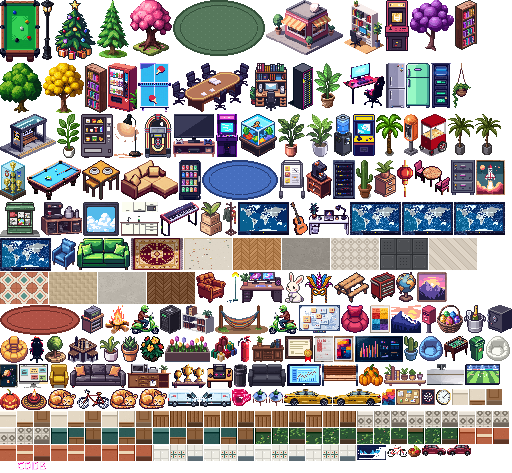
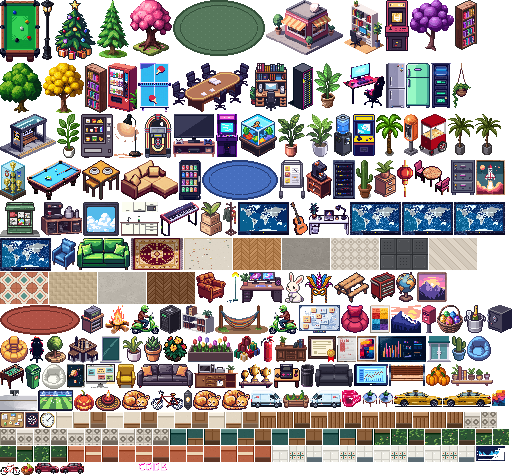
Firmópolis: a fachada do prédio vista de frente, embaixo do mapa
Peças novas do PixelLab (janela, porta de vidro, arandela e floreira, em
arte/pixellab/fachada, com o gerar.py), a parede desenhada no mapa.js e a
rua 32 px mais para baixo. As arandelas acendem à noite com os postes.

diff --git a/static/mapa.js b/static/mapa.js
@@ -10,7 +10,8 @@ const PAREDE = 3;              // altura da parede, em tiles
 const MESA_W = 3, MESA_H = 3;  // célula de mesa, em tiles
 const BAIXO_PISO = 8;          // piso das salas de baixo, em tiles
 const CORREDOR_H = 3;
-const MX = 5, MY = 4, MB = 11;  // área externa: laterais, topo e rua embaixo (em tiles)
+const MX = 5, MY = 4, MB = 13;  // área externa: laterais, topo e rua embaixo (em tiles)
+const FACHADA = 32;  // px: a frente do prédio vista de frente, embaixo da planta (Firmópolis); empurra a rua para baixo
 const ESTILOS_MESA = [
   { tampo: "#c9a777", brilho: "#dcbd8c", frente: "#8a6a45", borda: "#6e5236", pe: "#2b2b36" },   // madeira clara
   { tampo: "#7a5236", brilho: "#946646", frente: "#53361f", borda: "#3e2716", pe: "#1f1f26" },   // madeira escura
@@ -445,7 +446,7 @@ function montar(atlas, config, grupos, planta) {
   pintaPx(c, cx1, cT0, 3, corredor.h * T, "#23212f");                                        // fundo do corredor
   pintaPx(c, cx0 - 3, cT0, 3, 8, "#23212f"); pintaPx(c, cx0 - 3, cB0 - 8, 3, 8, "#23212f");   // batentes da entrada
   { // lado de fora: calçada de pedra portuguesa (ondas) da porta até a rua, capacho na porta e soleira por dentro
-    const px0 = predioRet.x - 26, fimCaminho = predioRet.y + predioRet.h + 68;
+    const px0 = predioRet.x - 26, fimCaminho = predioRet.y + predioRet.h + FACHADA + 68;
     const pedra = (x, y, w, h) => {
       pintaPx(c, x, y, w, h, "#ece8de");
       c.fillStyle = "#5c5c64";
@@ -1194,10 +1195,11 @@ function pintarExterior(c, atlas, W, H, p, marca) {
   c.fillStyle = "#a7a49c";
   for (let x = p.x - m; x < p.x + p.w + m; x += 8) { c.fillRect(x, p.y - m, 1, m); c.fillRect(x, p.y + p.h, 1, m); }
   for (let y = p.y - m; y < p.y + p.h + m; y += 8) { c.fillRect(p.x - m, y, m, 1); c.fillRect(p.x + p.w, y, m, 1); }
-  // sombra do prédio
-  c.fillStyle = "rgba(0,0,0,.22)"; c.fillRect(p.x + 4, p.y + p.h, p.w, 5); c.fillRect(p.x + p.w, p.y + 4, 5, p.h);
+  // sombra do prédio (embaixo, a fachada faz a sombra)
+  c.fillStyle = "rgba(0,0,0,.22)"; c.fillRect(p.x + p.w, p.y + 4, 5, p.h + FACHADA);
+  pintarFachada(c, atlas, p, r);
   // rua: meio-fio, asfalto e faixas
-  const yRua = p.y + p.h + 84, alt = 44;
+  const yRua = p.y + p.h + FACHADA + 84, alt = 44;
   c.fillStyle = "#d7d4cc"; c.fillRect(0, yRua - 4, W, 4);
   c.fillStyle = "#3d3f46"; c.fillRect(0, yRua, W, alt);
   for (let i = 0; i < W * alt / 30; i++) { c.fillStyle = r() < 0.5 ? "#45474f" : "#36383f"; c.fillRect(Math.floor(r() * W), yRua + Math.floor(r() * alt), 1, 1); }
@@ -1223,8 +1225,30 @@ function pintarExterior(c, atlas, W, H, p, marca) {
   c.fillStyle = "#4f8a3c"; for (let i = 0; i < W / 40; i++) c.fillRect(Math.floor(r() * W), yRua - 17, 1, 2);   // tufos de grama no meio-fio
 }
 
+// A frente do prédio, vista de frente, numa faixa embaixo da planta: reboco, cornija, rodapé de pedra, janelas, a porta de
+// vidro no meio com arandelas dos lados e floreiras no chão. As peças são do PixelLab (arte/pixellab/fachada); a parede, daqui.
+function pintarFachada(c, atlas, p, r) {
+  const y0 = p.y + p.h, x0 = p.x, x1 = p.x + p.w, h = FACHADA;
+  c.fillStyle = "#e6cfa6"; c.fillRect(x0, y0, p.w, h);
+  for (let i = 0; i < p.w * h / 14; i++) { c.fillStyle = r() < 0.5 ? "#dcc298" : "#efdab4"; c.fillRect(x0 + Math.floor(r() * p.w), y0 + 3 + Math.floor(r() * (h - 6)), 1, 1); }
+  c.fillStyle = "#b8956a"; c.fillRect(x0, y0, p.w, 3); c.fillStyle = "#d9bd8f"; c.fillRect(x0, y0 + 3, p.w, 1);   // cornija
+  c.fillStyle = "#958d80"; c.fillRect(x0, y0 + h - 3, p.w, 3); c.fillStyle = "#7d766b"; c.fillRect(x0, y0 + h - 1, p.w, 1);   // rodapé
+  for (let x = x0 + 40; x < x1; x += 80) { c.fillStyle = "#d4b88c"; c.fillRect(x, y0 + 4, 2, h - 7); }   // pilastras
+  const peca = (n, cx, base) => { const s = sprite(atlas, n); if (s) c.drawImage(atlas.img, s[0], s[1], s[2], s[3], Math.round(cx - s[2] / 2), base - s[3], s[2], s[3]); return s; };
+  const porta = Math.round(x0 + p.w / 2), fora = [porta - 34, porta + 34];
+  for (let x = x0 + 20; x < x1 - 10; x += 40) if (Math.abs(x - porta) > 30) peca("fachada_janela", x, y0 + h - 3);
+  peca("fachada_porta", porta, y0 + h - 2);
+  for (const x of [porta - 18, porta + 18]) peca("fachada_arandela", x, y0 + 22);
+  // calçadinha na frente da fachada e floreiras entre as janelas
+  c.fillStyle = "#b9b6ae"; c.fillRect(x0, y0 + h, p.w, 6); c.fillStyle = "#a7a49c"; for (let x = x0; x < x1; x += 8) c.fillRect(x, y0 + h, 1, 6);
+  c.fillStyle = "rgba(0,0,0,.18)"; c.fillRect(x0, y0 + h, p.w, 2);
+  for (let x = x0 + 40; x < x1 - 20; x += 160) if (!fora.some(f => Math.abs(f - x) < 40)) peca("fachada_floreira", x, y0 + h + 8);
+}
+// onde ficam as arandelas da fachada (acendem à noite, com os postes)
+const arandelas = p => { const porta = Math.round(p.x + p.w / 2); return [porta - 18, porta + 18].map(x => ({ x, y: p.y + p.h + 8 })); };
+
 function montarExterior(atlas, obj0, W, H, p, marca, portaY) {
-  const r = rng(marca ^ 11), ext = { carros: [], postes: [], ruaY: p.y + p.h + 84, ruaAlt: 44 };
+  const r = rng(marca ^ 11), ext = { carros: [], postes: [], ruaY: p.y + p.h + FACHADA + 84, ruaAlt: 44 };
   const tem = n => !!sprite(atlas, n), alto = n => sprite(atlas, n)[3], larg = n => sprite(atlas, n)[2];
   // planta e árvore saem espelhadas metade das vezes (pixel art não escala sem borrar: a variação vem do espelho e do deslocamento)
   // fora: árvores e plantas daqui balançam com o vento do clima (efeitos.js)
@@ -1233,7 +1257,7 @@ function montarExterior(atlas, obj0, W, H, p, marca, portaY) {
   // expediente (aberto/fechado, desenhada no efeitos.js) e, depois dela, o bicicletário. A placa vem antes de tudo do gramado
   // (os outros desviam dela) e fica fora da rota de quem sai: pelo caminho até a calçada e de lá para a esquerda (vida.js)
   obj("planta2", p.x - 14, portaY - 12);
-  obj("placa_expediente", p.x + 26, p.y + p.h + 59); obj("bicicletario", p.x + 84, p.y + p.h + 40);
+  obj("placa_expediente", p.x + 26, p.y + p.h + FACHADA + 59); obj("bicicletario", p.x + 84, p.y + p.h + FACHADA + 40);
   // cada empresa ganha sua rua: 3 espécies de árvore sorteadas (as outras aparecem de vez em quando) e seu ritmo
   const especies = ["arvore1", "arvore2", "arvore3", "arvore_ipe", "arvore_jacaranda"].filter(tem);
   for (let i = especies.length - 1; i > 0; i--) { const k = Math.floor(r() * (i + 1)); [especies[i], especies[k]] = [especies[k], especies[i]]; }
@@ -1263,6 +1287,7 @@ function montarExterior(atlas, obj0, W, H, p, marca, portaY) {
   for (let x = 30 + r() * 70; x < W - 20; x += passo + (r() - 0.5) * 40) {
     const o = obj("poste", x, meioFio); if (o) ext.postes.push({ x: o.x + o.w / 2, y: o.y + 4 });
   }
+  ext.postes.push(...arandelas(p));
   obj("caixa_correio", p.x - 6, meioFio);
   const urbano = ["banco", "banco", "lixeira_rua", "lixeira_rua", "hidrante", "hidrante", "orelhao", "ponto_onibus", "banca_jornal"].filter(tem);
   const vagasRua = Math.max(4, Math.floor((W - p.x - 40) / 130));
@@ -1272,7 +1297,7 @@ function montarExterior(atlas, obj0, W, H, p, marca, portaY) {
     obj(n, x, n === "banco" ? meioFio - 2 : meioFio, true);
   }
   // gramado entre o prédio e a rua: uma pracinha (mesa de piquenique e árvore) e canteiros espalhados
-  const yGrama = p.y + p.h + 44, praca = p.x + 120 + Math.floor(r() * Math.max(1, p.w - 300));
+  const yGrama = p.y + p.h + FACHADA + 44, praca = p.x + 120 + Math.floor(r() * Math.max(1, p.w - 300));
   if (tem("mesa_piquenique")) { obj("mesa_piquenique", praca, yGrama + 8, true); if (especies.length) obj(arvore(), praca + 44, yGrama + 2, true); }
   for (let x = p.x + 30; x < p.x + p.w - 20; x += 64 + Math.floor(r() * 34)) {
     if (ext.postes.some(q => Math.abs(q.x - x) < 34) || Math.abs(x - praca) < 70) continue;   // nada atrás de poste nem em cima da praça

diff --git a/static/index.html b/static/index.html
@@ -11,10 +11,10 @@
   <meta name="theme-color" content="#0f0f0e">
   <meta name="mobile-web-app-capable" content="yes">
   <meta name="apple-mobile-web-app-status-bar-style" content="black">
-  <link rel="stylesheet" href="estilo.css?v=116">
-  <link rel="stylesheet" href="chat_sala.css?v=116">
-  <link rel="stylesheet" href="reunioes.css?v=116">
-  <link rel="stylesheet" href="linha_tempo.css?v=116">
+  <link rel="stylesheet" href="estilo.css?v=117">
+  <link rel="stylesheet" href="chat_sala.css?v=117">
+  <link rel="stylesheet" href="reunioes.css?v=117">
+  <link rel="stylesheet" href="linha_tempo.css?v=117">
 </head>
 <body>
   <a class="pular" href="#principal">Ir para o conteúdo</a>
@@ -785,33 +785,33 @@
       </div>
     </div>
   </dialog>
-  <script src="abertura.js?v=116"></script>
-  <script src="avatar.js?v=116"></script>
-  <script src="mapa.js?v=116"></script>
-  <script src="expediente.js?v=116"></script>
-  <script src="vida.js?v=116"></script>
-  <script src="apresentacao.js?v=116"></script>
-  <script src="sprites.js?v=116"></script>
-  <script src="ponte.js?v=116"></script>
-  <script src="som.js?v=116"></script>
-  <script src="ceu.js?v=116"></script>
-  <script src="clima.js?v=116"></script>
-  <script src="festas.js?v=116"></script>
-  <script src="simular.js?v=116"></script>
-  <script src="efeitos.js?v=116"></script>
-  <script src="brincar.js?v=116"></script>
-  <script src="tv.js?v=116"></script>
-  <script src="jornal.js?v=116"></script>
-  <script src="novidades.js?v=116"></script>
-  <script src="timelapse.js?v=116"></script>
-  <script src="avisar.js?v=116"></script>
-  <script src="resposta_rapida.js?v=116"></script>
-  <script src="linha_tempo.js?v=116"></script>
-  <script src="reunioes.js?v=116"></script>
-  <script src="app.js?v=116"></script>
-  <script src="personalizar.js?v=116"></script>
-  <script src="ajustes.js?v=116"></script>
-  <script src="assistente.js?v=116"></script>
-  <script src="chat_sala.js?v=116"></script>
+  <script src="abertura.js?v=117"></script>
+  <script src="avatar.js?v=117"></script>
+  <script src="mapa.js?v=117"></script>
+  <script src="expediente.js?v=117"></script>
+  <script src="vida.js?v=117"></script>
+  <script src="apresentacao.js?v=117"></script>
+  <script src="sprites.js?v=117"></script>
+  <script src="ponte.js?v=117"></script>
+  <script src="som.js?v=117"></script>
+  <script src="ceu.js?v=117"></script>
+  <script src="clima.js?v=117"></script>
+  <script src="festas.js?v=117"></script>
+  <script src="simular.js?v=117"></script>
+  <script src="efeitos.js?v=117"></script>
+  <script src="brincar.js?v=117"></script>
+  <script src="tv.js?v=117"></script>
+  <script src="jornal.js?v=117"></script>
+  <script src="novidades.js?v=117"></script>
+  <script src="timelapse.js?v=117"></script>
+  <script src="avisar.js?v=117"></script>
+  <script src="resposta_rapida.js?v=117"></script>
+  <script src="linha_tempo.js?v=117"></script>
+  <script src="reunioes.js?v=117"></script>
+  <script src="app.js?v=117"></script>
+  <script src="personalizar.js?v=117"></script>
+  <script src="ajustes.js?v=117"></script>
+  <script src="assistente.js?v=117"></script>
+  <script src="chat_sala.js?v=117"></script>
 </body>
 </html>

diff --git a/arte/pixellab/fachada/gerar.py b/arte/pixellab/fachada/gerar.py
@@ -1,0 +1,13 @@
+# Gera uma arte no PixelLab (pixflux): python3 gerar.py <saida.png> <largura> <altura> "<descrição>" [semente]
+# A chave fica fora do repositório, em ~/.config/pixellab/key. Mostra o custo de cada geração.
+import base64, json, os, sys, urllib.request
+saida, w, h, desc = sys.argv[1], int(sys.argv[2]), int(sys.argv[3]), sys.argv[4]
+corpo = {"description": desc, "image_size": {"width": w, "height": h}, "view": "side", "no_background": True,
+         "detail": "highly detailed", "shading": "medium shading", "outline": "single color outline"}
+if len(sys.argv) > 5: corpo["seed"] = int(sys.argv[5])
+chave = open(os.path.expanduser("~/.config/pixellab/key")).read().strip()
+req = urllib.request.Request("https://api.pixellab.ai/v1/generate-image-pixflux", json.dumps(corpo).encode(),
+                             {"Authorization": "Bearer " + chave, "Content-Type": "application/json"})
+d = json.load(urllib.request.urlopen(req, timeout=180))
+open(saida, "wb").write(base64.b64decode(d["image"]["base64"].split(",")[-1]))
+print(saida, "US$ %.4f" % d["usage"]["usd"])

diff --git a/ferramentas/montar_tema.py b/ferramentas/montar_tema.py
@@ -60,6 +60,9 @@ ESCOLHA = {
     "arvore_ipe": "arvore_ipe_2", "arvore_jacaranda": "arvore_jacaranda_1", "palmeira": "palmeira_1",
     "banca_jornal": "banca_jornal_2", "orelhao": "orelhao_2", "ponto_onibus": "ponto_onibus_2", "mesa_piquenique": "mesa_piquenique_2",
     "jukebox": "jukebox_2", "pipoqueira": "pipoqueira_2", "rede_descanso": "rede_descanso_2", "mesa_xadrez": "mesa_xadrez_2",
+    # a fachada de frente, embaixo do prédio (Firmópolis): peças soltas, a parede é desenhada no mapa.js
+    "fachada_porta": "fachada/porta", "fachada_janela": "fachada/janela", "fachada_arandela": "fachada/arandela",
+    "fachada_floreira": "fachada/floreira",
 }
 
 T = 16
